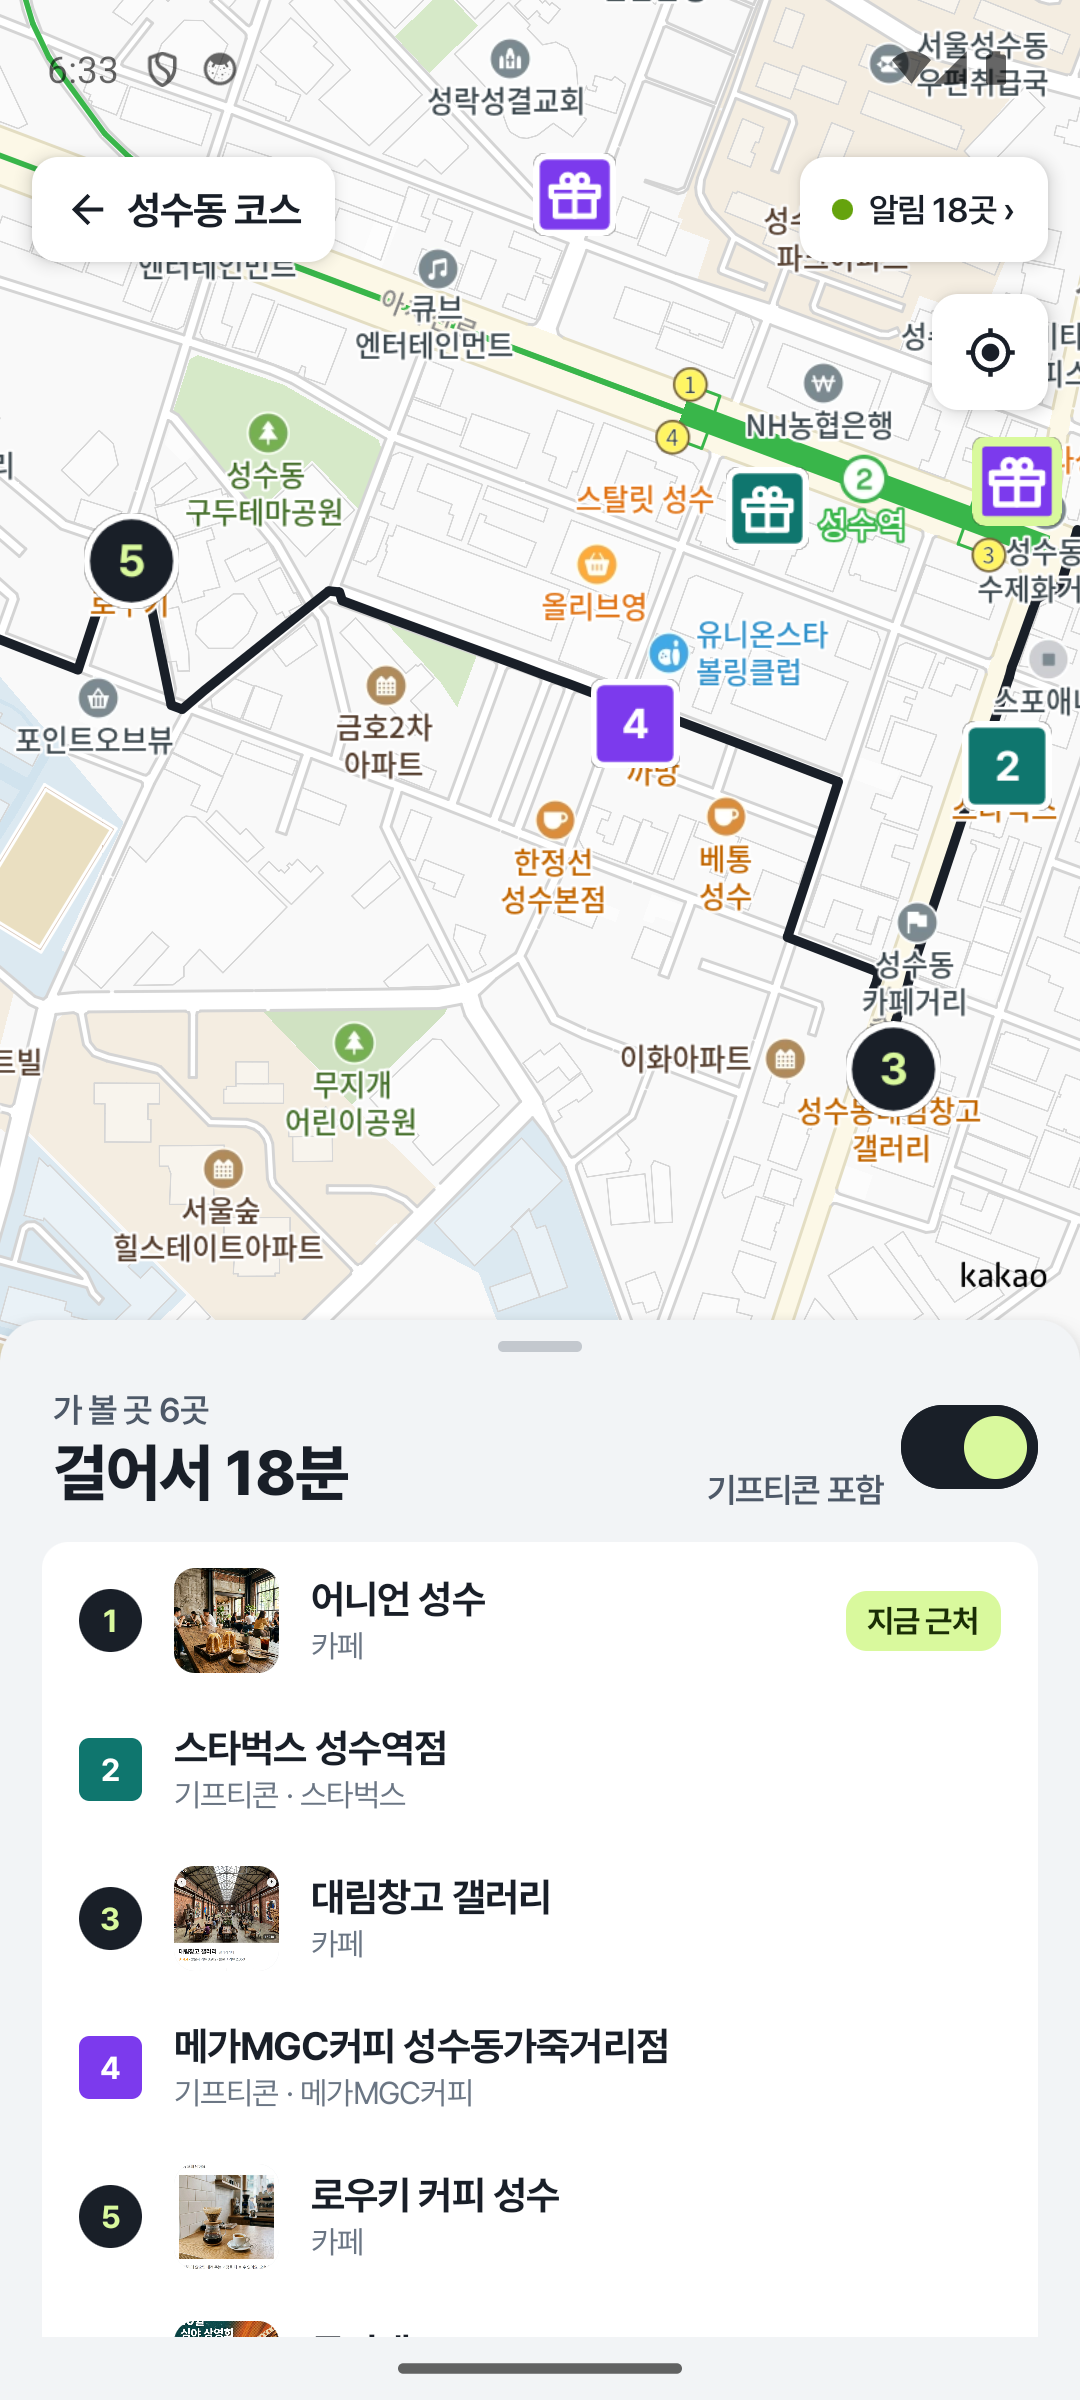
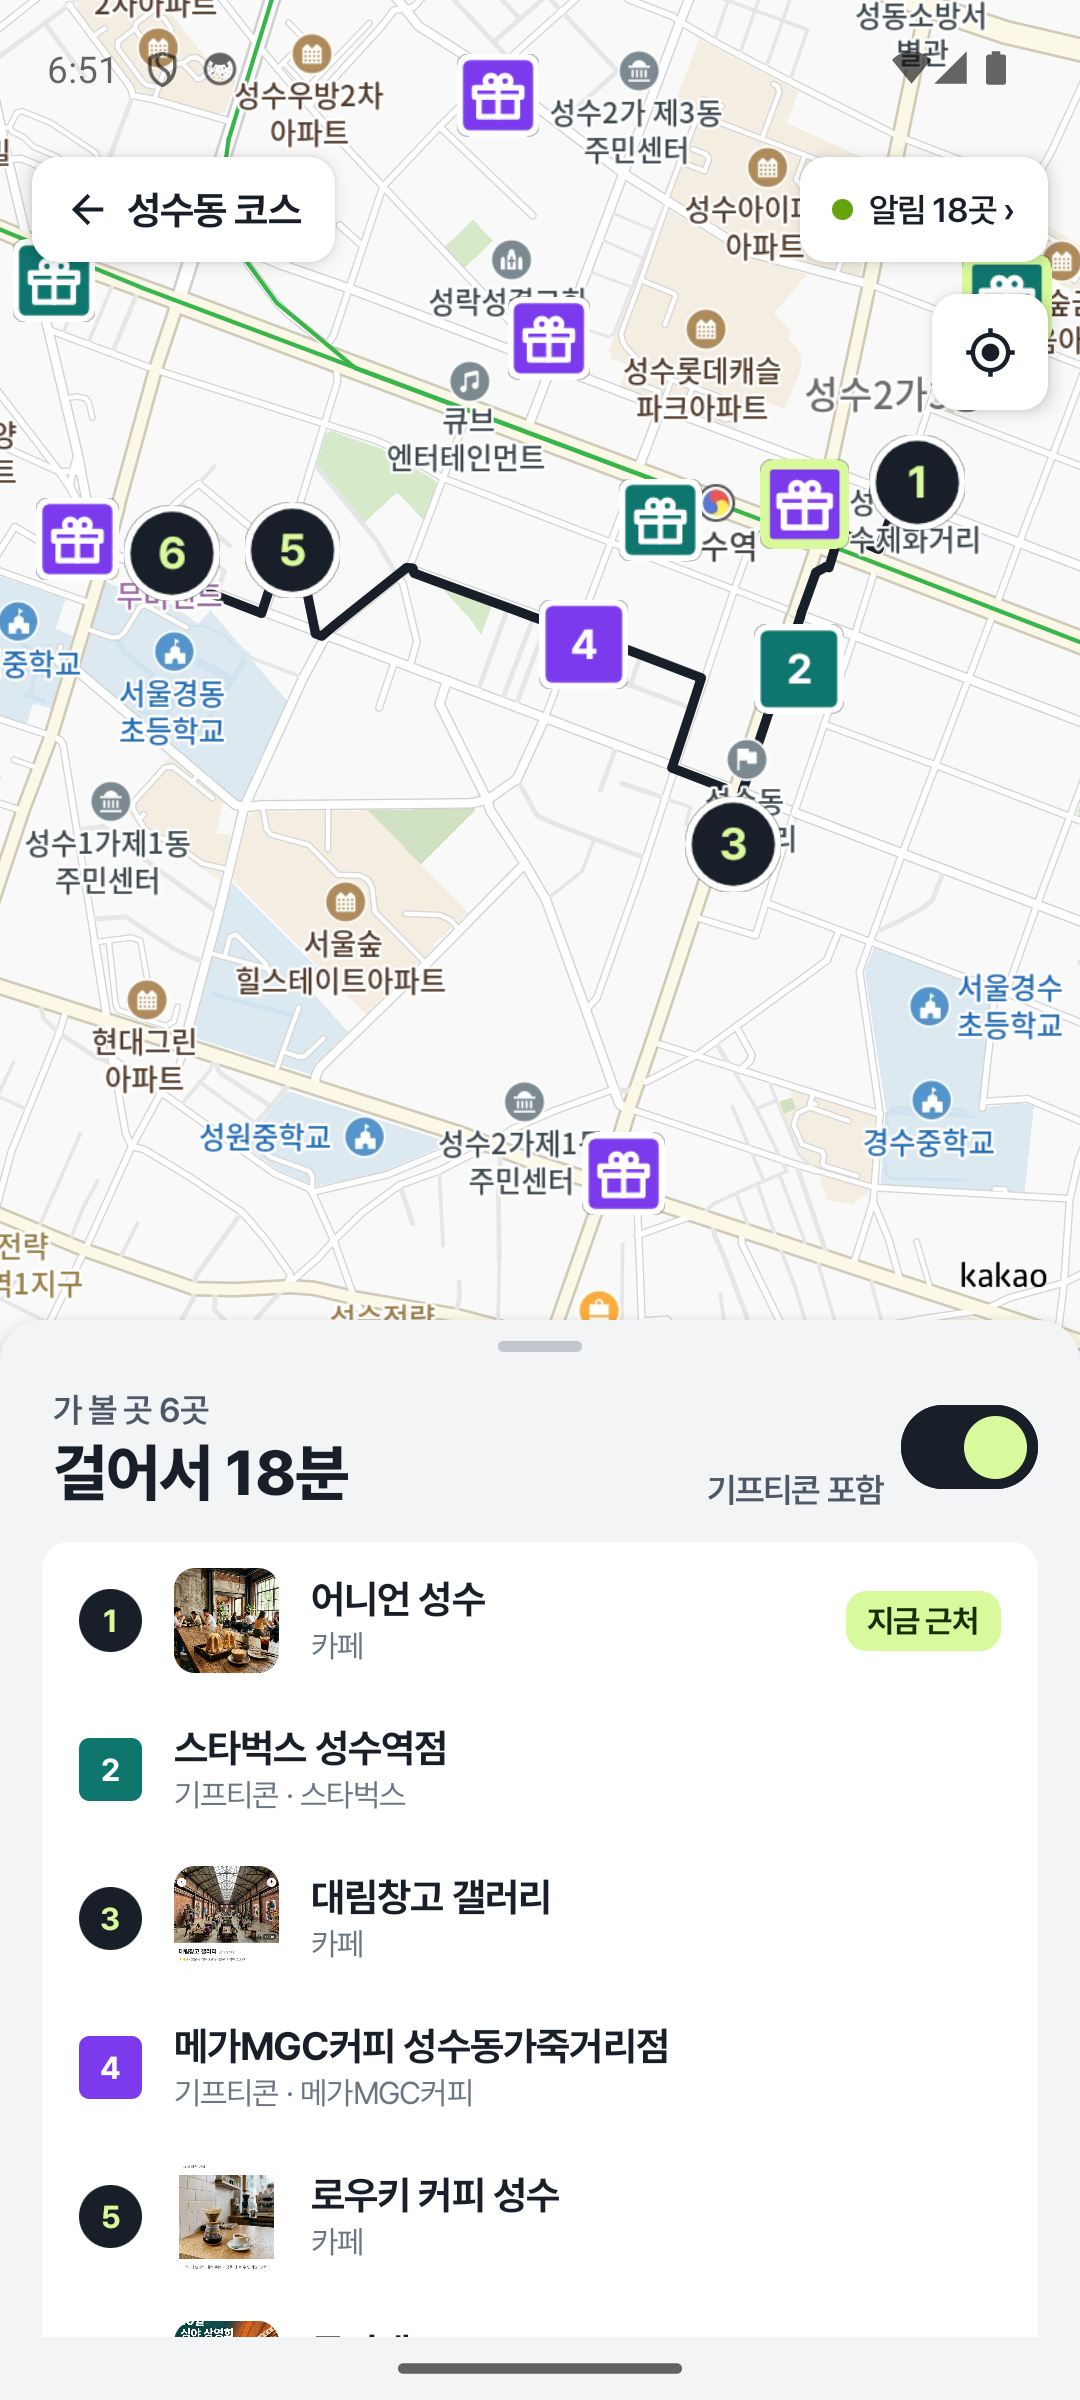
동선을 열면 지도가 경로 전체를 담도록 맞추기, 직선 동선 스크린샷 추가
- SpotMap: 동선이 바뀔 때(열기, 기프티콘 포함, 걷는 길 도착) fitMapPoints로 경로 전체를 화면에 담아요. 아래 시트 패딩은 그대로 지켜요.
- toggleBundle의 중심+줌 고정 이동은 지웠어요.
- README: 직선 동선 → 걷는 길 → 기프티콘 포함 스크린샷 3장

Changed region(s): [[0.0, 0.0, 1.0, 0.5625], [0.7639, 0.0, 1.0, 0.0625]]

diff --git a/app/src/main/java/com/capstone/snapspot/ui/map/SpotMap.kt b/app/src/main/java/com/capstone/snapspot/ui/map/SpotMap.kt
@@ -94,6 +94,9 @@ data class MapFocus(val at: Coords, val seq: Long, val zoom: Int = 16)
 
 private val SEOUL = Coords(37.5665, 126.9780)
 
+/** Margin around a route fitted into view: room for the pins and the floating chips over the map's top. */
+private const val ROUTE_FIT_DP = 64
+
 /**
  * Kakao map with saved places (pin + alert radius), registered branches and the user. Full-bleed by default;
  * with `cornerRadius` > 0 it sits in a rounded card, and since the map renders on a SurfaceView that ignores
@@ -204,6 +207,13 @@ fun SpotMap(
         val m = map ?: return@LaunchedEffect
         val f = focus ?: return@LaunchedEffect
         m.moveCamera(CameraUpdateFactory.newCenterPosition(LatLng.from(f.at.latitude, f.at.longitude), f.zoom), CameraAnimation.from(350))
+    }
+
+    // A new route (a bundle opened, coupons toggled, the walking path arriving) brings all of it into view.
+    LaunchedEffect(map, route) {
+        val m = map ?: return@LaunchedEffect
+        if (route.size < 2) return@LaunchedEffect
+        m.moveCamera(CameraUpdateFactory.fitMapPoints(route.map(::latLng).toTypedArray(), (ROUTE_FIT_DP * density).toInt()), CameraAnimation.from(350))
     }
 
     Box(

diff --git a/app/src/main/java/com/capstone/snapspot/ui/home/HomeViewModel.kt b/app/src/main/java/com/capstone/snapspot/ui/home/HomeViewModel.kt
@@ -203,12 +203,8 @@ class HomeViewModel(app: Application) : AndroidViewModel(app) {
     }
 
     fun toggleBundle(id: String) {
+        // The map fits the opened bundle's route into view by itself (SpotMap).
         _openBundle.value = if (_openBundle.value == id) null else id
-        val item = bundles.value.firstOrNull { it.bundle.id == id } ?: return
-        if (_openBundle.value == id) {
-            val span = item.bundle.places.maxOf { distanceMeters(item.bundle.center, Coords(it.latitude, it.longitude)) }
-            _focus.value = MapFocus(item.bundle.center, System.nanoTime(), if (span < 400) 16 else if (span < 900) 15 else 14)
-        }
     }
 
     /** From a bundle notification: open the bundle the place is in, or just the place if the bundle is gone. */

diff --git a/README.md b/README.md
@@ -182,9 +182,12 @@
 - **동선 길이**: Held-Karp는 정답이라 늘 가장 짧아요(0%). 2-opt·Or-opt는 정답보다 몇 % 길 수 있어요.
 - 그래서 기준은 "어느 쪽이 빠른가"가 아니라 **"정답을 한도 안에 낼 수 있는가"**예요. Held-Karp가 한도에 닿는 12~13곳보다 한 칸 여유를 두고 11곳까지 Held-Karp를 쓰고, 12곳부터 2-opt·Or-opt로 바꿔요.
 <p>
+  <img src="docs/screenshots/bundle-straight.png" width="180" alt="걷는 길을 받기 전의 성수동 코스. 직선 거리로 정한 순서대로 장소 1~4번을 직선으로 잇고, 시간은 직선 거리로 추정한 '걸어서 19분'" />
   <img src="docs/screenshots/bundle-route.png" width="180" alt="성수동 코스를 연 화면. 알림 반경 원은 숨기고, 장소 1~4번을 실제 걷는 길로 잇는 동선과 '걸어서 17분'" />
   <img src="docs/screenshots/bundle-coupon.png" width="180" alt="기프티콘 포함을 켠 동선. 동선 위의 스타벅스 성수역점이 청록 네모 2번, 메가MGC커피 성수동가죽거리점이 보라 네모 4번으로 들어가 6곳을 '걸어서 18분'에 도는 동선" />
 </p>
+
+왼쪽부터: TMAP 답이 오기 전 직선 동선(추정 19분) → 실제 걷는 길로 바꾼 동선(17분) → 기프티콘 지점을 넣은 동선(18분). 동선을 열면 지도가 경로 전체가 보이도록 맞춰져요.
 
 ## 브랜드 지점 찾기
 
